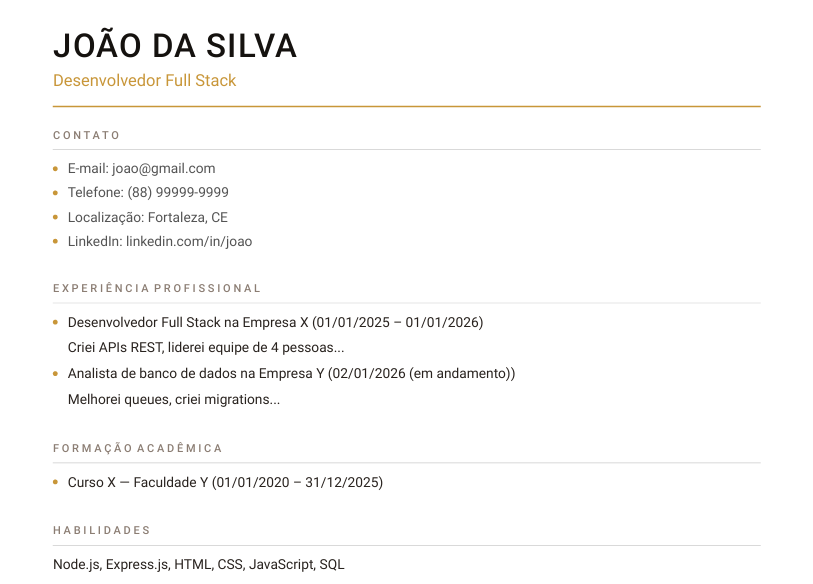
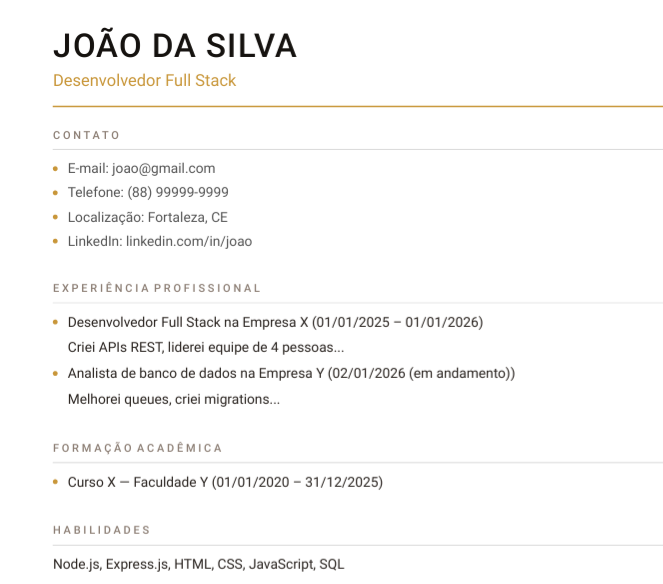
Mudanças visuais: centralizando a imagem

diff --git a/public/style.css b/public/style.css
@@ -84,18 +84,22 @@ nav.scrolled {
 /* ══════════════════════════════════════
    LANDING — HERO
    ══════════════════════════════════════ */
+.hero-block {
+  position: relative;
+  min-height: 100vh;
+  overflow-x: hidden;
+  border-bottom: 1px solid var(--line);
+}
+
 .hero {
   min-height: 100vh;
   display: flex;
   flex-direction: column;
   justify-content: center;
   padding: 70px 64px 80px;
-  position: relative;
-  border-bottom: 1px solid var(--line);
-  overflow-x: hidden;
 }
 
-.hero::before {
+.hero-block::before {
   content: '';
   position: absolute;
   top: 0; bottom: 0; left: 50%;
@@ -152,29 +156,104 @@ nav.scrolled {
 
 .hero-deco {
   position: absolute;
-  left: 50%;
-  top: 10%;
-  width: 700px;
-  max-width: calc(100vw - 128px);
-  transform: translateX(-50%);
-  height: auto;
-  max-height: 560px;
-  user-select: none;
-  pointer-events: none;
-  box-shadow: 0 32px 80px rgba(42, 36, 32, 0.15), 0 8px 24px rgba(201, 151, 58, 0.1);
-  border-radius: 12px;
-  overflow: hidden;
+  left: 55%;
+  top: 20%;
+  transform: translate(-50%, -50%);
+
+  width: min(520px, 42vw);
+  padding: 24px;
+
+  display: flex;
+  align-items: center;
+  justify-content: center;
+
+  background: rgba(255, 255, 255, 0.45);
+  backdrop-filter: blur(6px);
+
+  border-radius: 20px;
   border: 3px solid rgba(201, 151, 58, 0.15);
+
+  box-shadow:
+    0 32px 80px rgba(42, 36, 32, 0.15),
+    0 8px 24px rgba(201, 151, 58, 0.1);
+
   animation: slideInRight 0.8s 0.5s ease forwards;
   opacity: 0;
 }
 
 .hero-deco img {
   width: 100%;
+  max-width: 100%;
   height: auto;
   display: block;
-  border-radius: 12px;
   object-fit: contain;
+  border-radius: 12px;
+}
+
+@media (max-width: 980px) {
+  .hero {
+    min-height: auto;
+    padding: 60px 32px 60px;
+    text-align: center;
+  }
+
+  .hero-title {
+    max-width: 100%;
+  }
+
+  .hero-sub {
+    margin-inline: auto;
+    max-width: 100%;
+  }
+
+  .hero-actions {
+    justify-content: center;
+    flex-wrap: wrap;
+    gap: 18px;
+  }
+
+  .hero-block::before {
+    display: none;
+  }
+
+  .hero-deco {
+    position: static;
+    transform: none;
+    margin: 32px auto 0;
+    width: min(100%, 700px);
+    max-width: 100%;
+    max-height: none;
+    pointer-events: auto;
+  }
+}
+
+@media (max-width: 640px) {
+  nav {
+    padding: 18px 24px;
+  }
+
+  .hero {
+    padding: 60px 20px 48px;
+  }
+
+  .hero-eyebrow {
+    margin-bottom: 20px;
+  }
+
+  .hero-actions {
+    gap: 14px;
+  }
+
+  .btn-primary {
+    width: 100%;
+    justify-content: center;
+    padding: 16px 24px;
+  }
+
+  .hero-deco {
+    margin-top: 24px;
+    border-width: 2px;
+  }
 }
 
 /* ── BOTÃO PRIMÁRIO ── */
@@ -572,13 +651,16 @@ button[type="submit"]:hover { background: var(--blue2); }
    ══════════════════════════════════════ */
 @media (max-width: 700px) {
   nav                          { padding: 18px 24px; }
+  .hero-block                   { min-height: auto; }
   .hero, .features, .how,
   .cta-section, .footer-section { padding-left: 32px; padding-right: 32px; }
-  .hero::before                { display: none; }
-  .hero-deco                   { position: static; width: min(400px, calc(100vw - 64px)); max-width: 100%; height: auto; 
-                                 right: auto; bottom: auto; margin: 40px auto 0; 
-                                 box-shadow: 0 20px 56px rgba(42, 36, 32, 0.12), 0 6px 18px rgba(201, 151, 58, 0.08); }
-  .features-grid               { grid-template-columns: 1fr; }
-  .how                         { grid-template-columns: 1fr; gap: 40px; }
-  .row                         { grid-template-columns: 1fr; }
+  .hero-block::before           { display: none; }
+  .hero-deco                    { position: static; width: min(400px, calc(100vw - 64px)); max-width: 100%; height: auto; 
+                                  right: auto; bottom: auto; margin: 40px auto 0; 
+                                  box-shadow: 0 20px 56px rgba(42, 36, 32, 0.12), 0 6px 18px rgba(201, 151, 58, 0.08); }
+  .features-grid                { grid-template-columns: 1fr; }
+  .how                          { grid-template-columns: 1fr; gap: 40px; }
+  .row                          { grid-template-columns: 1fr; }
+  .footer-section               { flex-wrap: wrap; justify-content: center; gap: 12px; padding-bottom: 32px; }
+  .footer-section > *           { width: 100%; text-align: center; }
 }
